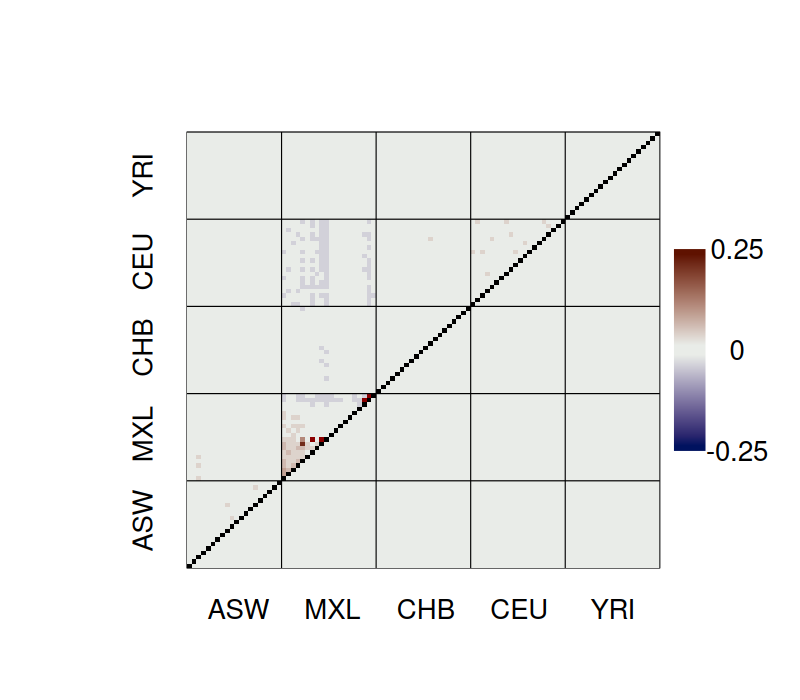
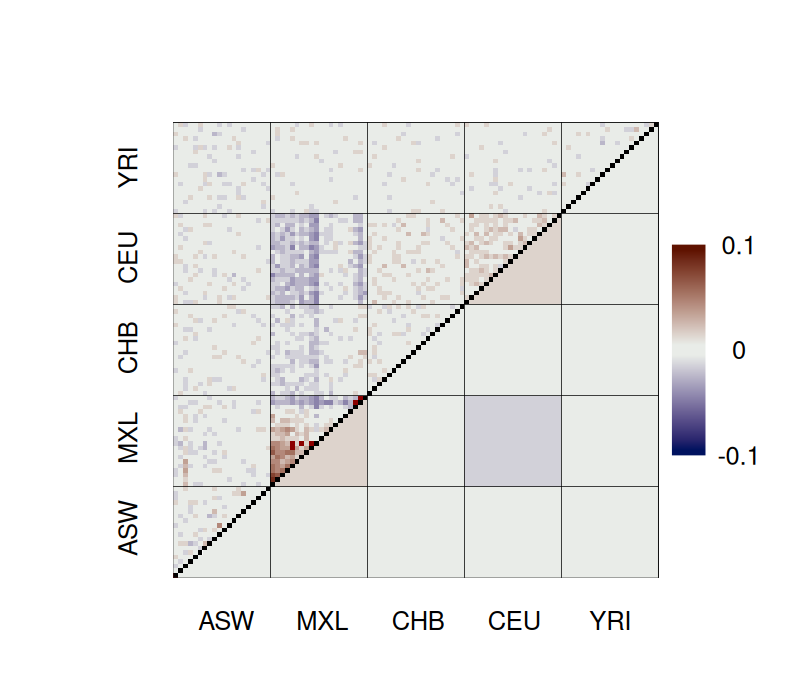
NGSadmix tutorial evalAdmix figure: colour scale ±0.1 instead of ±0.25

diff --git a/DETAILS.md b/DETAILS.md
@@ -184,7 +184,7 @@ q <- read.table("input.3.Q")
 ord <- orderInds(pop = pop, q = q)
 plotAdmix(q, pop = pop, ord = ord, cex.lab = 1.2, col = c("#1b9e77", "#d95f02", "#7570b3"))
 r <- as.matrix(read.table("input.3.corres.txt"))
-plotCorRes(r, pop = pop, ord = ord, max_z = 0.25, title = "")
+plotCorRes(r, pop = pop, ord = ord, max_z = 0.1, title = "")
 ```
 
 Time per run against ADMIXTURE: `bench/plot_wildebeest_time.R`.
